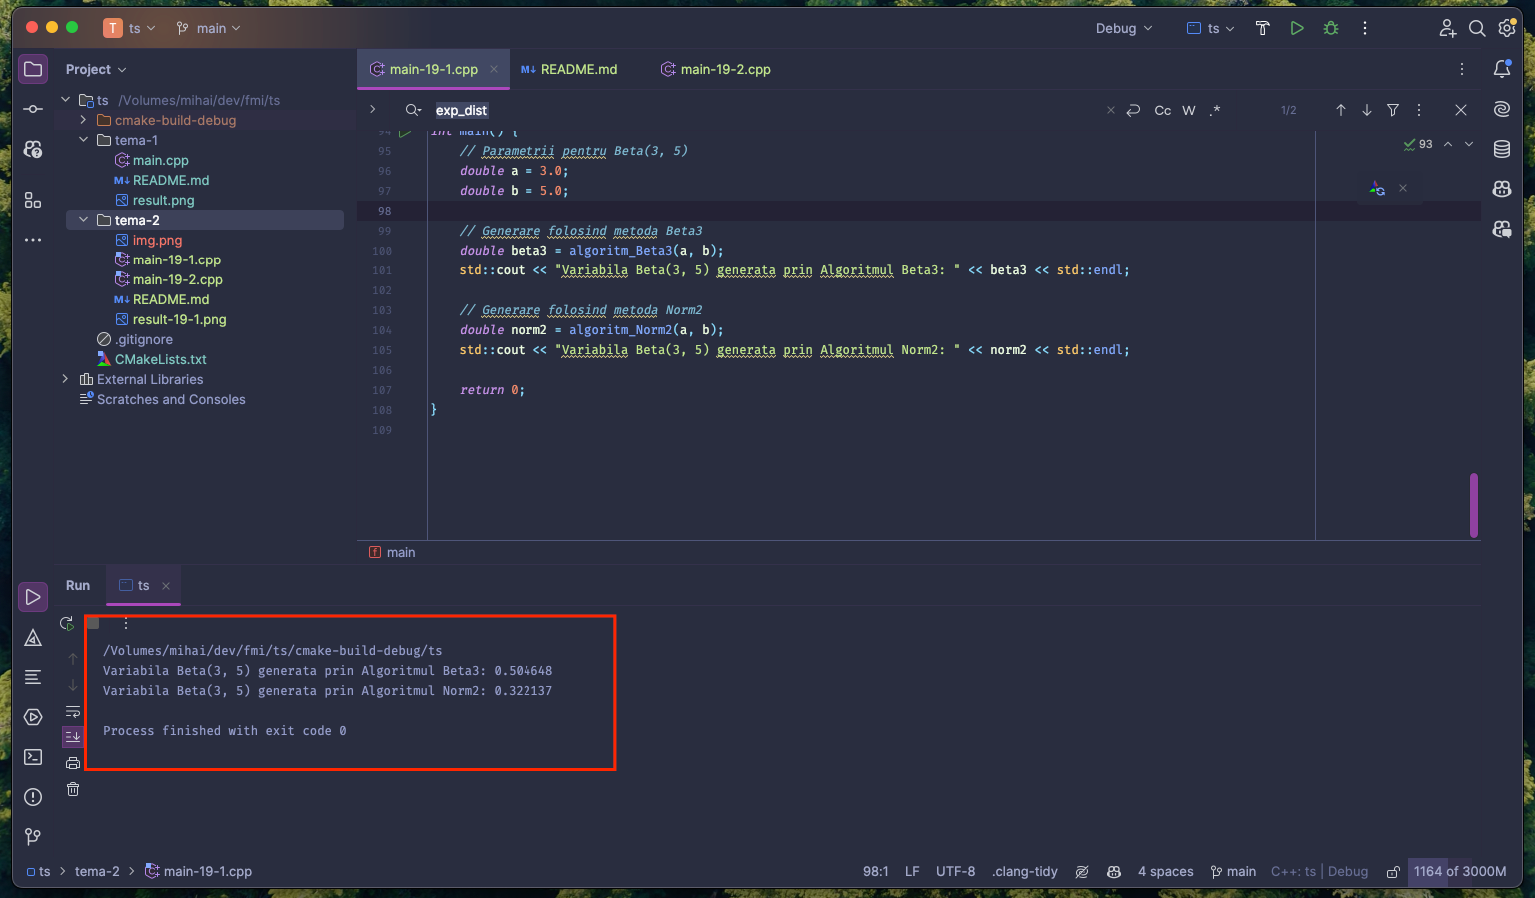
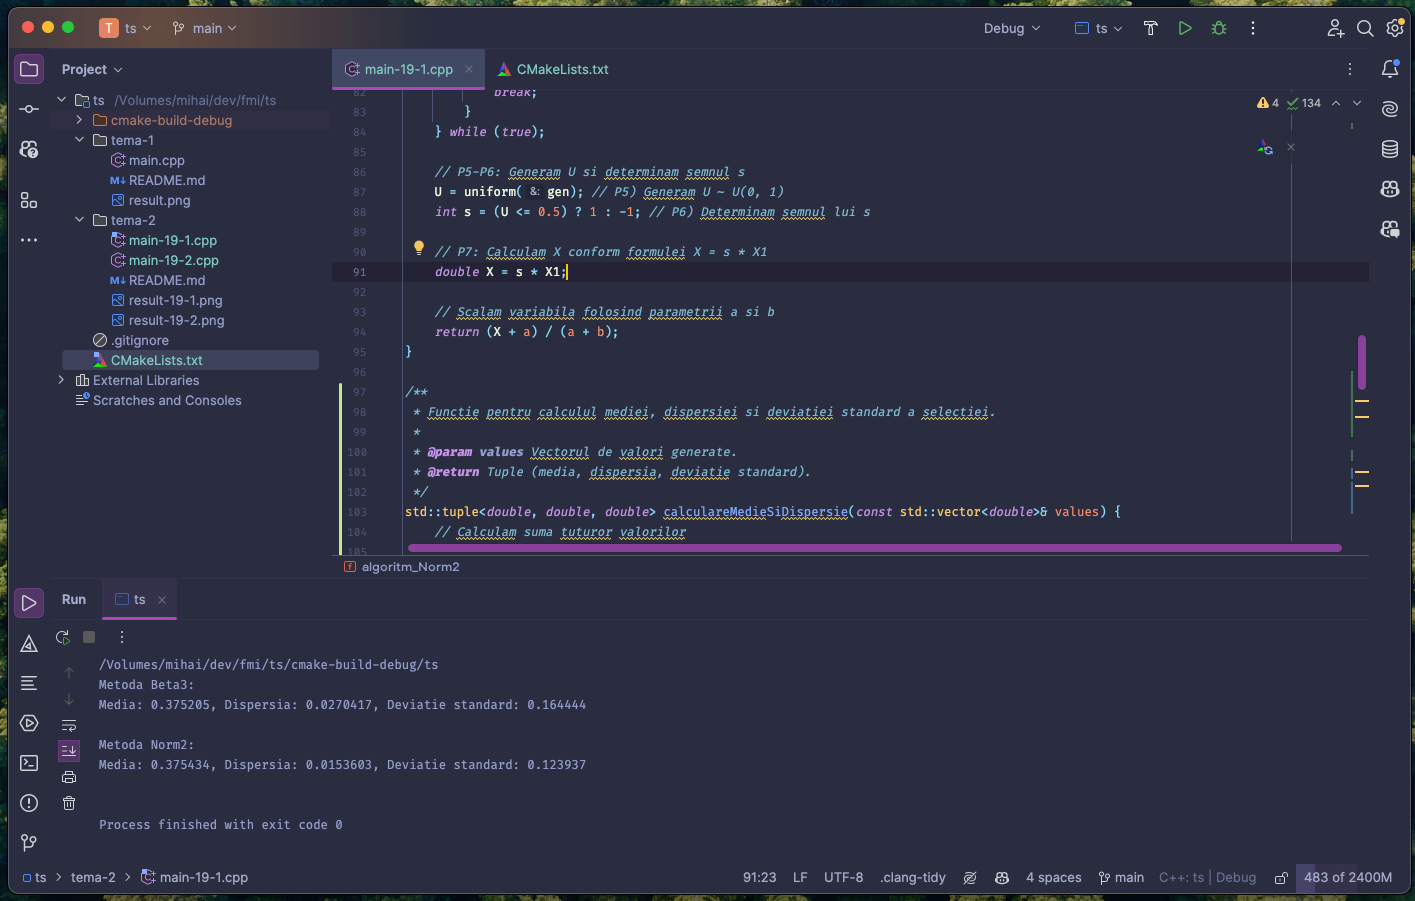
ts: tema 2 / adaugare validare medie si dispersie de selectie

diff --git a/ts/tema-2/main-19-2.cpp b/ts/tema-2/main-19-2.cpp
@@ -1,9 +1,12 @@
 #include <iostream>
 #include <random>
+#include <vector>
+#include <numeric>
+#include <cmath>
 
 /**
  * Sa se genereze variabila geometrica prin doua metode (curs 7).
- * Variabila geometrica reprezinta numarul de esecuri inainte de primul succes, care este intotdeauna un numar întreg.
+ * Variabila geometrica reprezinta numarul de esecuri inainte de primul succes, care este intotdeauna un numar intreg.
  *
  * @author Mihai Tuhari
  */
@@ -41,7 +44,7 @@ int algoritm_Binom1(double p, int n) {
         ++X; // Esec
     }
 
-    return X;
+    return X; // Returnam numarul total de esecuri daca nu am avut succes
 }
 
 /**
@@ -59,31 +62,75 @@ int algoritm_Binom1(double p, int n) {
 int algoritm_Bernoulli(double p) {
     int X = 0; // Variabila geometrica - numaram esecurile
 
+    // Generam pana cand avem un succes
     while (true) {
-        double U = uniform(gen); // P1) Generam o valoare uniforma
+        double U = uniform(gen); // Generam o valoare uniforma
 
-        if (U > 1 - p) { // P2) Verificam daca avem succes
+        if (U > 1 - p) { // Verificam daca avem succes
             break; // Succes - oprim bucla
         }
 
-        ++X; // Esec
+        ++X; // Incrementam pentru fiecare esec
     }
 
-    return X;
+    return X; // Returnam numarul total de esecuri
+}
+
+/**
+ * Functie pentru calculul mediei, dispersiei si deviatiei standard a selectiei.
+ *
+ * @param values Vectorul de valori generate.
+ * @return Tuple (media, dispersia, deviatie standard).
+ */
+std::tuple<double, double, double> calculareMedieSiDispersie(const std::vector<int>& values) {
+    // Calculam suma tuturor valorilor
+    double sum = std::accumulate(values.begin(), values.end(), 0.0);
+
+    // Calculam media valorilor
+    double mean = sum / values.size();
+
+    // Calculam suma patratelor valorilor
+    double sq_sum = std::inner_product(values.begin(), values.end(), values.begin(), 0.0);
+
+    // Calculam dispersia folosind formula dispersiei populatiei
+    double variance = (sq_sum / values.size()) - (mean * mean);
+
+    // Calculam deviatie standard
+    double stddev = std::sqrt(variance);
+
+    // Returnam media, dispersia si deviatia standard ca tuple
+    return {mean, variance, stddev};
 }
 
 int main() {
     // Probabilitatea de succes
     double p = 0.5;
     int n = 100; // Numar maxim de iteratii pentru metoda Binom1
+    int sample_size = 1000; // Numar de esantioane generate
+
+    // Vectori pentru stocarea esantioanelor
+    std::vector<int> samples_binom1;
+    std::vector<int> samples_bernoulli;
 
     // Generare folosind metoda Binom1
-    int geometric1 = algoritm_Binom1(p, n);
-    std::cout << "Variabila geometrica generata prin metoda Binom1: " << geometric1 << std::endl;
+    for (int i = 0; i < sample_size; ++i) {
+        samples_binom1.push_back(algoritm_Binom1(p, n));
+    }
 
     // Generare folosind metoda Bernoulli
-    int geometric2 = algoritm_Bernoulli(p);
-    std::cout << "Variabila geometrica generata prin metoda Bernoulli: " << geometric2 << std::endl;
+    for (int i = 0; i < sample_size; ++i) {
+        samples_bernoulli.push_back(algoritm_Bernoulli(p));
+    }
+
+    // Calculul mediei, dispersiei si deviatiei standard pentru Binom1
+    auto [mean_binom1, variance_binom1, stddev_binom1] = calculareMedieSiDispersie(samples_binom1);
+    std::cout << "Metoda Binom1:\n";
+    std::cout << "Media: " << mean_binom1 << ", Dispersia: " << variance_binom1 << ", Deviatie standard: " << stddev_binom1 << "\n\n";
+
+    // Calculul mediei, dispersiei si deviatiei standard pentru Bernoulli
+    auto [mean_bernoulli, variance_bernoulli, stddev_bernoulli] = calculareMedieSiDispersie(samples_bernoulli);
+    std::cout << "Metoda Bernoulli:\n";
+    std::cout << "Media: " << mean_bernoulli << ", Dispersia: " << variance_bernoulli << ", Deviatie standard: " << stddev_bernoulli << "\n\n";
 
     return 0;
 }

diff --git a/ts/tema-2/main-19-1.cpp b/ts/tema-2/main-19-1.cpp
@@ -1,6 +1,9 @@
 #include <iostream>
 #include <cmath>
 #include <random>
+#include <vector>
+#include <numeric>
+#include <tuple>
 
 /**
  * Sa se genereze variabila Beta(3, 5) prin doua metode (curs 6).
@@ -91,18 +94,61 @@ double algoritm_Norm2(double a, double b) {
     return (X + a) / (a + b);
 }
 
+/**
+ * Functie pentru calculul mediei, dispersiei si deviatiei standard a selectiei.
+ *
+ * @param values Vectorul de valori generate.
+ * @return Tuple (media, dispersia, deviatie standard).
+ */
+std::tuple<double, double, double> calculareMedieSiDispersie(const std::vector<double>& values) {
+    // Calculam suma tuturor valorilor
+    double sum = std::accumulate(values.begin(), values.end(), 0.0);
+
+    // Calculam media valorilor
+    double mean = sum / values.size();
+
+    // Calculam suma patratelor valorilor
+    double sq_sum = std::inner_product(values.begin(), values.end(), values.begin(), 0.0);
+
+    // Calculam dispersia folosind formula dispersiei populatiei
+    double variance = (sq_sum / values.size()) - (mean * mean);
+
+    // Calculam deviatie standard
+    double stddev = std::sqrt(variance);
+
+    // Returnam media, dispersia si deviatia standard ca tuple
+    return {mean, variance, stddev};
+}
+
 int main() {
     // Parametrii pentru Beta(3, 5)
     double a = 3.0;
     double b = 5.0;
+    int n = 1000; // Numar de esantioane generate
+
+    // Vectori pentru stocarea esantioanelor
+    std::vector<double> samples_beta3;
+    std::vector<double> samples_norm2;
 
     // Generare folosind metoda Beta3
-    double beta3 = algoritm_Beta3(a, b);
-    std::cout << "Variabila Beta(3, 5) generata prin Algoritmul Beta3: " << beta3 << std::endl;
+    for (int i = 0; i < n; ++i) {
+        samples_beta3.push_back(algoritm_Beta3(a, b));
+    }
 
     // Generare folosind metoda Norm2
-    double norm2 = algoritm_Norm2(a, b);
-    std::cout << "Variabila Beta(3, 5) generata prin Algoritmul Norm2: " << norm2 << std::endl;
+    for (int i = 0; i < n; ++i) {
+        samples_norm2.push_back(algoritm_Norm2(a, b));
+    }
+
+    // Calculul mediei, dispersiei si deviatiei standard pentru Beta3
+    auto [mean_beta3, variance_beta3, stddev_beta3] = calculareMedieSiDispersie(samples_beta3);
+    std::cout << "Metoda Beta3:\n";
+    std::cout << "Media: " << mean_beta3 << ", Dispersia: " << variance_beta3 << ", Deviatie standard: " << stddev_beta3 << "\n\n";
+
+    // Calculul mediei, dispersiei si deviatiei standard pentru Norm2
+    auto [mean_norm2, variance_norm2, stddev_norm2] = calculareMedieSiDispersie(samples_norm2);
+    std::cout << "Metoda Norm2:\n";
+    std::cout << "Media: " << mean_norm2 << ", Dispersia: " << variance_norm2 << ", Deviatie standard: " << stddev_norm2 << "\n\n";
 
     return 0;
 }
